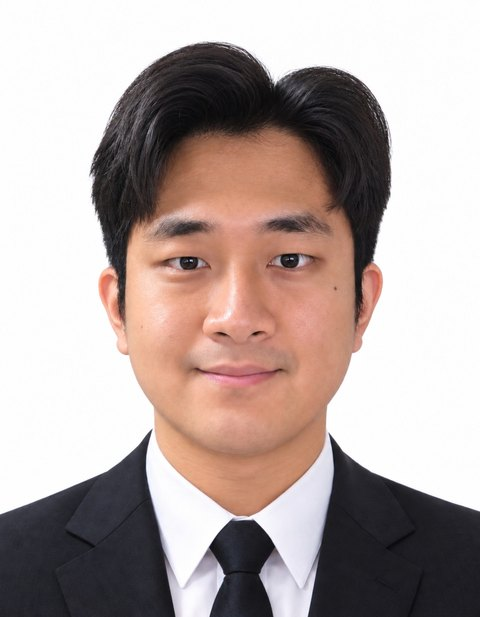
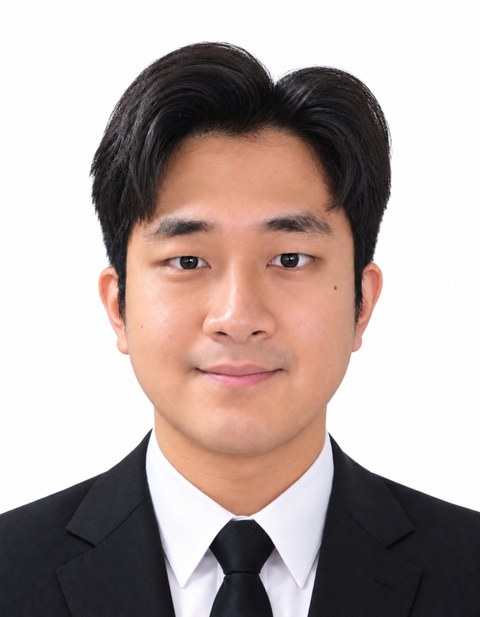
Update photo, company names, AI note and solar feasibility title

diff --git a/index.html b/index.html
@@ -34,16 +34,16 @@
       <p class="role">Software Developer</p>
       <h1>현업의 문제를 풀고<br>일하는 방식을 바꾸는 개발자</h1>
       <p class="name">김민기 <span>Kim Mingi</span></p>
-      <p class="intro-note">구현에는 Claude Code·Codex를 함께 씁니다. 무엇을 만들지와 반영 여부는 제가 정하고, 배포 전에는 서비스 상태·로그·DB·테스트로 결과를 직접 확인합니다.</p>
+      <p class="intro-note">Claude Code·Codex로 구현·검증하고, AI가 놓친 버그는 직접 기능 테스트로 찾습니다.</p>
       <p class="intro-links"><a class="btn" href="#projects">프로젝트 보기</a><a class="btn line" href="https://github.com/laekhole">GitHub ↗</a></p>
     </div>
   </div>
   <div class="wrap">
     <h2 class="list-title">경력사항 <span>정규직</span></h2>
     <ol class="career">
-      <li><p class="when">2026.07 - 현재</p><p class="org">에너지 기업 · 선임</p><p class="what">사내 시스템 개발·운영, 관제·실적 자동화, 서버 운영</p></li>
-      <li><p class="when">2024.04 - 2026.06</p><p class="org">IT 서비스 기업(분할 신설 법인) · 주임</p><p class="what">ERP 구축 SI, 에너지 계열사 시스템 개발·연동</p></li>
-      <li><p class="when">2023.12 - 2025.09</p><p class="org">IT 서비스 기업 · 사원</p><p class="what">ERP 구축 SI, 총무 모듈 개발</p></li>
+      <li><p class="when">2026.07 - 현재<span class="co">대보에너지솔루션</span></p><p class="org">에너지 기업 · 선임</p><p class="what">사내 시스템 개발·운영, 관제·실적 자동화, 서버 운영</p></li>
+      <li><p class="when">2024.04 - 2026.06<span class="co">대보디엑스</span></p><p class="org">IT 서비스 기업(분할 신설 법인) · 주임</p><p class="what">ERP 구축 SI, 에너지 계열사 시스템 개발·연동</p></li>
+      <li><p class="when">2023.12 - 2025.09<span class="co">대보정보통신</span></p><p class="org">IT 서비스 기업 · 사원</p><p class="what">ERP 구축 SI, 총무 모듈 개발</p></li>
     </ol>
     <p class="career-note">물적분할 후 프로젝트 소속 유지로 두 법인에 동시 재적. 2026.07 그룹 내 에너지 계열사로 전배.</p>
   </div>
@@ -130,7 +130,7 @@
       <li><a href="#p2"><img src="assets/art-server.svg" alt="" width="480" height="280"><span class="g-no">Project 02</span><strong>업무 서버 운영·백업</strong><span class="badge ok">운영 중</span></a></li>
       <li><a href="#p3"><img src="assets/art-erp.svg" alt="" width="480" height="280"><span class="g-no">Project 03</span><strong>사내 ERP·업무시스템</strong><span class="badge">개발·운영</span></a></li>
       <li><a href="#p4"><img src="assets/art-web.svg" alt="" width="480" height="280"><span class="g-no">Project 04</span><strong>AI 활용 웹사이트 구축</strong><span class="badge">내부 검토 시안</span></a></li>
-      <li><a href="#p5"><img src="assets/art-feasibility.svg" alt="" width="480" height="280"><span class="g-no">Project 05</span><strong>주소 기반 사업성 사전 검토</strong><span class="badge">개발 중</span></a></li>
+      <li><a href="#p5"><img src="assets/art-feasibility.svg" alt="" width="480" height="280"><span class="g-no">Project 05</span><strong>주소 기반 태양광 발전소 사업성 사전 검토</strong><span class="badge">개발 중</span></a></li>
       <li><a href="#p6"><img src="assets/thumb-waid.png" alt="" width="960" height="560"><span class="g-no">Project 06</span><strong>WAID · AI 세션 관리 도구</strong><span class="badge own">개인 · v0.2.0</span></a></li>
     </ul>
 
@@ -230,7 +230,7 @@
         <img src="assets/art-feasibility.svg" alt="필지 지도와 규정·계통·일사량·수익성 항목을 그린 설명 그림" width="480" height="280">
       </div>
       <div class="p-body">
-        <h3 id="p5-t">주소 기반 사업성 사전 검토</h3>
+        <h3 id="p5-t">주소 기반 태양광 발전소 사업성 사전 검토</h3>
         <dl class="meta">
           <dt>사업내용</dt><dd>주소로 필지·조례·계통·일사량·수익성을 함께 보는 예비 검토 도구</dd>
           <dt>기간</dt><dd>2026.08 - 현재</dd>
@@ -239,7 +239,7 @@
         </dl>
         <p class="role-title">주요역할 및 기능</p>
         <div class="roles">
-          <section><h4>1) 요구 구체화</h4><ul><li>“주소만 넣으면 사업성을 볼 수 있느냐”는 경영진 질문에서 출발</li><li>사업개발 담당자에게 분석 순서를 배워 검토 항목 확정</li></ul></section>
+          <section><h4>1) 요구 구체화</h4><ul><li>“주소만으로 해당 필지의 사업성을 파악할 수 있느냐”는 경영진 질문에서 출발</li><li>사업개발 담당자에게 분석 순서를 배워 검토 항목 확정</li></ul></section>
           <section><h4>2) 연동·계산</h4><ul><li>VWorld 필지, 법제처 조례, 한전 계통, PVGIS 일사량</li><li>발전량·공사비와 IRR·NPV·DSCR</li></ul></section>
           <section><h4>3) 결과 표시</h4><ul><li>자료 없는 항목은 ‘자료 부족’ 표시</li><li>분석 가정·결과 저장 후 재비교</li></ul></section>
         </div>

diff --git a/style.css b/style.css
@@ -68,6 +68,7 @@ img { max-width: 100%; height: auto; display: block; }
 .career li { padding: 16px 18px; background: #fff; border: 1px solid var(--line); border-radius: 12px; }
 .career li:first-child { border-color: var(--accent); box-shadow: inset 4px 0 0 var(--accent); }
 .when { color: var(--muted); font-size: 13px; font-variant-numeric: tabular-nums; }
+.co { margin-left: 10px; color: var(--ink); font-size: 14px; font-weight: 700; }
 .org { margin-top: 4px; font-weight: 700; }
 .what { color: var(--muted); font-size: 13.5px; }
 .career-note { margin-top: 10px; color: var(--muted); font-size: 12.5px; }
